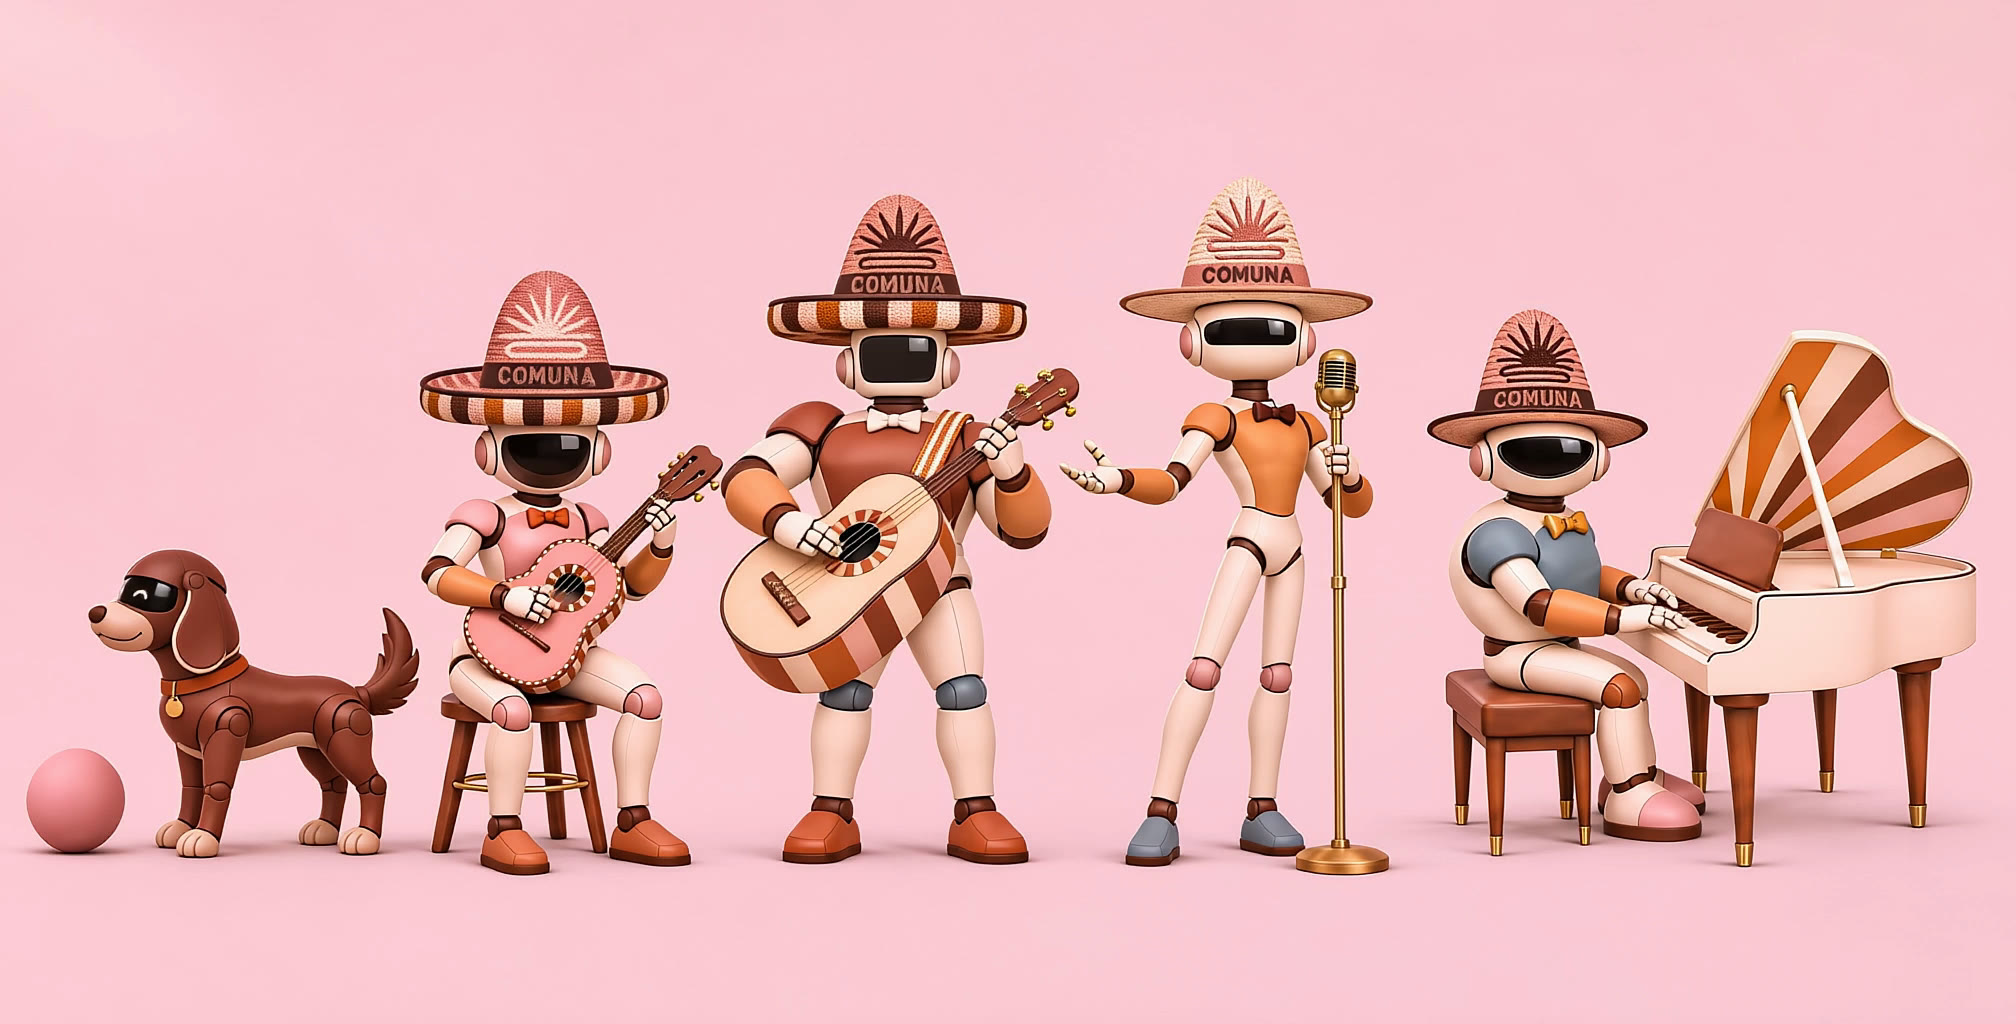
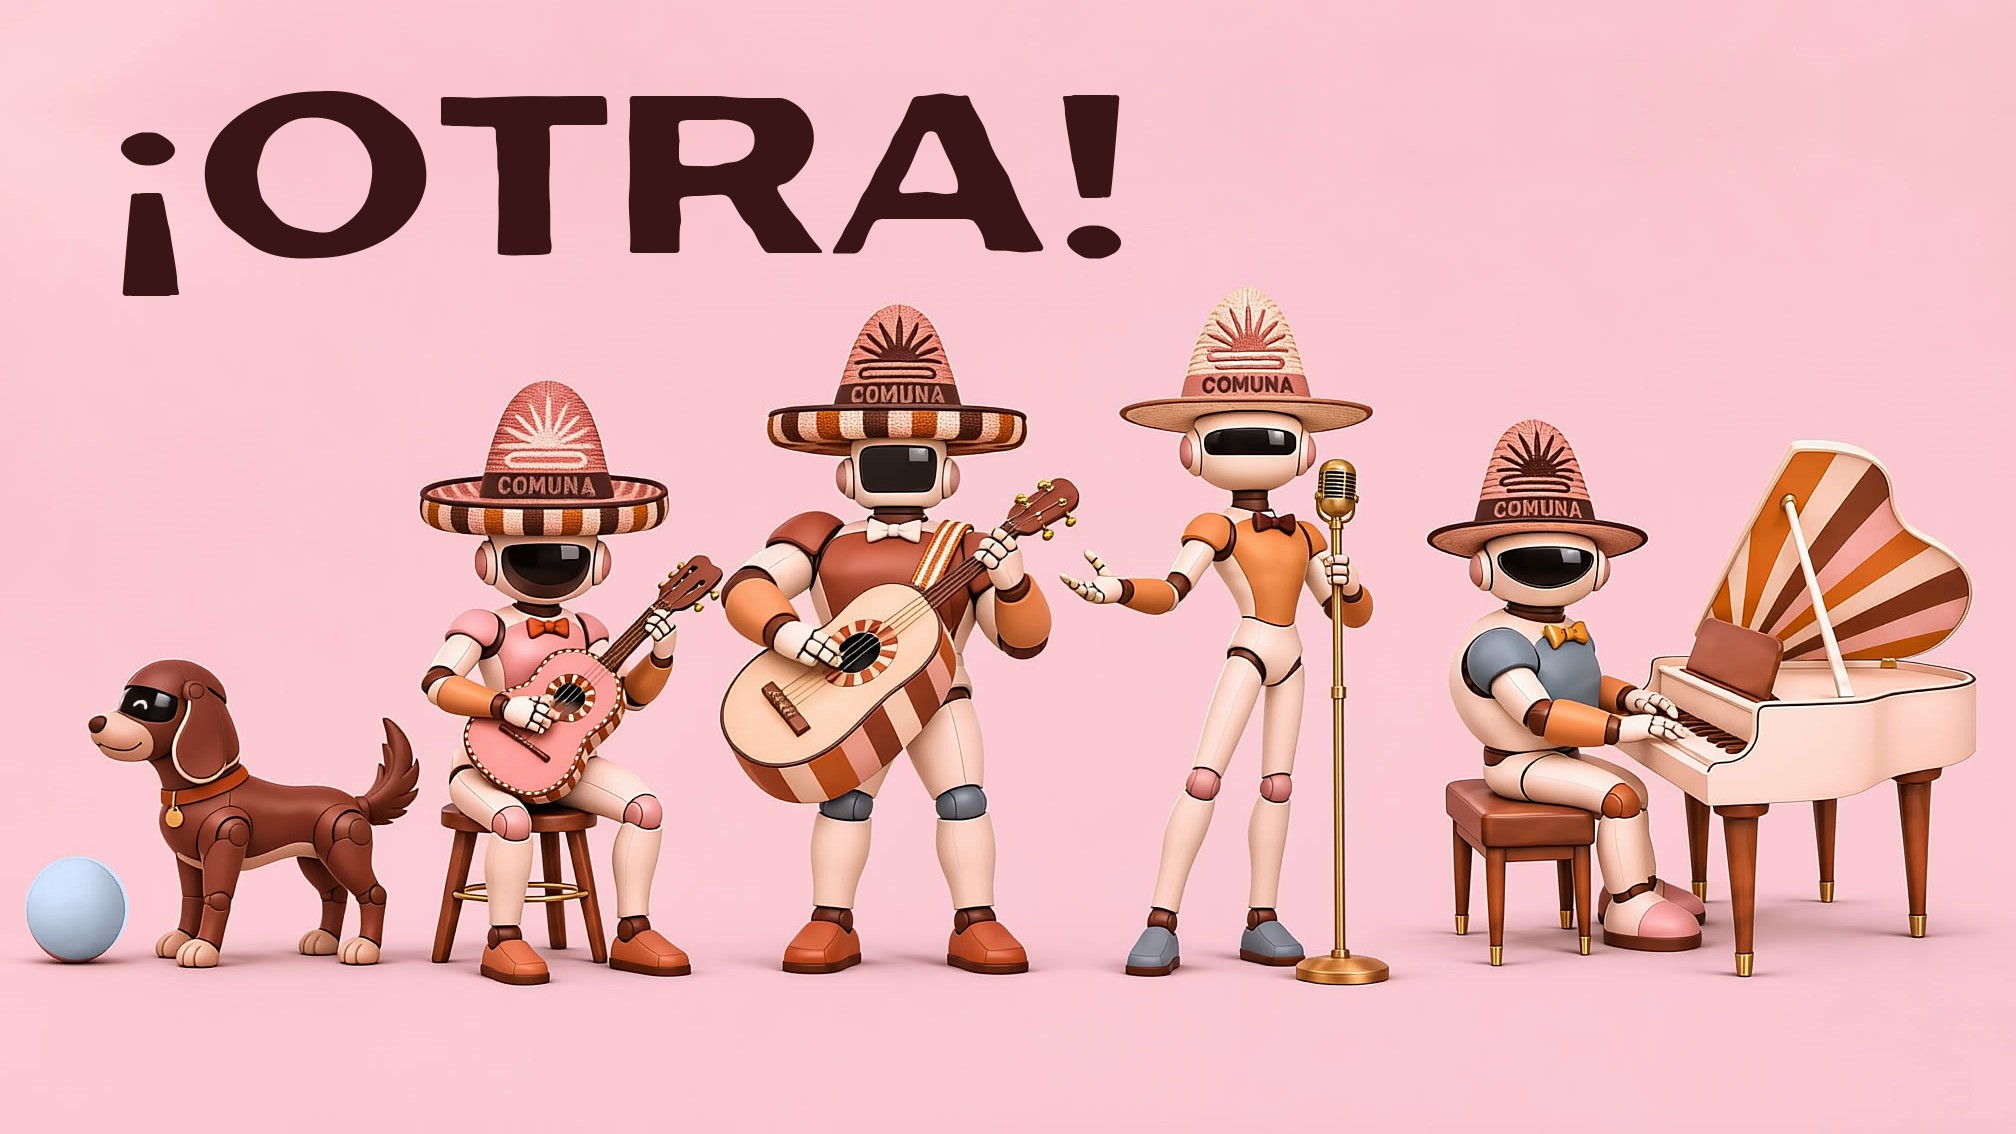
Comuna deck: the R&D sell, our factory, and the band at full width
Jesse, 12 Nov 2 to 3 am: the R&D slide "as a bit of a sell" after CASA;
"our full factory ... AU based, AU owned factory in China" after the team;
the band larger, the ball light blue, "a nice heavy font": ¡OTRA!.

diff --git a/deck/comuna/index.html b/deck/comuna/index.html
@@ -528,13 +528,6 @@
      dark into cocoa and its white ground into nothing, so JPEG logos on white need no blend mode. */
   section[aria-label$=". Who we work with"] .slide{background:#DCE0EC}
   section[aria-label$=". Who we work with"] .wall img{filter:url(#cm-ink);mix-blend-mode:normal;opacity:1}
-  /* the band, the callback to Who we work with: the same heading, the band whole below it on their pink */
-  section[aria-label$=". Who we play with"] .slide{background:#F9C6CF}
-  .cm-band{display:flex;flex-direction:column}
-  .cm-band .cm-band-pic{flex:1 1 auto;min-height:0;margin-top:calc(24*var(--u));display:grid;place-items:center;container-type:size}
-  .cm-band .cm-band-pic img{display:block;max-width:100cqw;max-height:100cqh;width:auto;height:auto;
-    -webkit-mask-image:linear-gradient(90deg,transparent,#000 4%,#000 96%,transparent),linear-gradient(transparent,#000 9%,#000 91%,transparent);
-    -webkit-mask-composite:source-in;mask-composite:intersect}
   .cm-film .plate{container-type:size;display:grid;place-items:center}
   .cm-film iframe{display:block;border:0;width:min(100cqw,calc(100cqh*16/9));height:min(100cqh,calc(100cqw*9/16))}
   /* the title card: the slate run out 400 a side (title-wide), so a wide screen gets more slate, never a cut hat */
@@ -660,13 +653,25 @@
   </div></div>
 </section>
 
-<section class="stage" id="s10" aria-label="Slide 10. Wonder Robotics">
+<section class="stage" id="s10" aria-label="Slide 10. The R and D Tax Incentive">
+  <div class="slide"><div class="in full poster cm-poster cm-whole" style="--ground:#667B89">
+    <div class="plate"><img src="../../img/deck/comuna/art/11-rd-tax.jpg" width="1920" height="1080" alt="¡GRACIAS, ATO! 43.5% of eligible R&D spend, back, through the R&D Tax Incentive, beside El Charro serenading with his vihuela. At a 25% company tax rate, for companies under $20m aggregated turnover (connected companies count). The claim goes to whoever funds and owns the R&D. Your tax adviser confirms what qualifies."></div>
+  </div></div>
+</section>
+
+<section class="stage" id="s11" aria-label="Slide 11. Wonder Robotics">
   <div class="slide"><div class="in full poster cm-poster" style="--ground:#BB7256">
     <div class="plate"><img src="../../img/deck/comuna/art/13-team.jpg" width="2880" height="1620" alt="Wonder Robotics: Jesse Costelloe, design and fabrication; Ryan Edwards, commercial; Logan Baker, marketing; Gino Feng, engineering and robotics; Peter White, advisor, franchising; Don Sanka Small, advisor, growth"></div>
   </div></div>
 </section>
 
-<section class="stage" id="s11" aria-label="Slide 11. Who we work with">
+<section class="stage" id="s12" aria-label="Slide 12. Where our machines are built">
+  <div class="slide"><div class="in full poster cm-poster" style="--ground:#3A1515">
+    <div class="plate"><img src="../../img/deck/comuna/art/14-factory.jpg" width="2880" height="1620" alt="WHERE OUR MACHINES ARE BUILT, over the factory floor in Comuna's cocoa and cream, two finished machines standing on it. Australian owned. Our factory in China. Installed and serviced here. Visualisation, from the factory as filmed."></div>
+  </div></div>
+</section>
+
+<section class="stage" id="s13" aria-label="Slide 13. Who we work with">
   <div class="slide"><div class="in">
     <h2 class="l r">Who we work with.</h2>
     <ul class="wall r">
@@ -686,29 +691,27 @@
       <li><img src="../../img/partners/blue-sun-group.jpg" alt="Blue Sun Group"></li>
       <li><img class="tall" src="../../img/partners/little-red-dumplings.jpg" alt="Little Red Dumpling"></li>
     </ul>
-    <div class="foot"><p>Wonder Robotics</p><p>11</p></div>
+    <div class="foot"><p>Wonder Robotics</p><p>13</p></div>
   </div></div>
 </section>
 
-<section class="stage" id="s12" aria-label="Slide 12. Who we play with">
-  <div class="slide"><div class="in cm-band">
-    <h2 class="l r">And who we play with.</h2>
-    <div class="cm-band-pic r"><img src="../../img/deck/comuna/art/12-band.jpg" width="2016" height="1024" alt="Comuna's robot band in their pink hats: the brown robot dog with his ball, El Charro on a stool with the vihuela, El Charro Callado with the guitarrón, Ojos Negros at the microphone, El Gordo de Oro at the sunburst piano"></div>
-    <div class="foot"><p>Wonder Robotics</p><p>12</p></div>
+<section class="stage" id="s14" aria-label="Slide 14. Otra">
+  <div class="slide"><div class="in full poster cm-poster" style="--ground:#F8C5CE">
+    <div class="plate"><img src="../../img/deck/comuna/art/12-band.jpg" width="2016" height="1134" alt="¡OTRA! over Comuna's robot band in their pink hats: the brown robot dog with his light blue ball, El Charro on a stool with the vihuela, El Charro Callado with the guitarrón, Ojos Negros at the microphone, El Gordo de Oro at the sunburst piano"></div>
   </div></div>
 </section>
 
-<section class="stage" id="s13" aria-label="Slide 13. Ownership">
+<section class="stage" id="s15" aria-label="Slide 15. Ownership">
   <div class="slide"><div class="in say-it own cm dark">
     <p class="lab r">Ownership</p>
     <h2 class="big r">This concept is ours until it is yours.</h2>
     <p class="own-text r">The concepts in this deck, the coffee cart, the cocktail bar, CASA's taco line, the hat, the vihuela, the robot mariachi and his band, their designs, drawings and renders, and this deck itself, belong to Wonder Byte Technology Pty Ltd (ACN 649 247 156), trading as Wonder Robotics, and are shared in confidence for evaluation only. Without a signed agreement and the deposit paid, none of it may be used, copied, adapted, shared or built, and nor may anything substantially similar to it in look, layout or design, by you or by anyone acting for you. The Comuna name and marks are yours. The cocktail duel is Makr Shakr's film, shown from their own channel.</p>
     <img class="cm-sun" src="../../img/deck/comuna/sun-cream.png" width="580" height="416" alt="">
-    <div class="foot"><p>&copy; 2026 Wonder Byte Technology Pty Ltd, trading as Wonder Robotics</p><p>13</p></div>
+    <div class="foot"><p>&copy; 2026 Wonder Byte Technology Pty Ltd, trading as Wonder Robotics</p><p>15</p></div>
   </div></div>
 </section>
 
-<section class="stage" id="s14" aria-label="Slide 14. Wonder Robotics, Fortitude Valley">
+<section class="stage" id="s16" aria-label="Slide 16. Wonder Robotics, Fortitude Valley">
   <div class="slide"><div class="in hero">
     <picture><source media="(max-width:760px)" srcset="../../img/hero-bot.jpg"><img class="bg" src="../../img/hero-bot-wide.jpg" width="4800" height="1340" alt="W-1, the Wonder robot, in his studio"></picture>
     <div class="wrap">
@@ -756,7 +759,7 @@
 
 <nav class="nav" aria-label="Slide controls">
   <button type="button" id="prev" aria-label="Previous slide">&#8592;</button>
-  <output id="count" aria-live="polite">01 / 14</output>
+  <output id="count" aria-live="polite">01 / 16</output>
   <button type="button" id="next" aria-label="Next slide">&#8594;</button>
   <button type="button" id="full" aria-label="Full screen">&#x26F6;</button>
 </nav>

diff --git a/src/comuna-slides.html b/src/comuna-slides.html
@@ -26,6 +26,10 @@
        hat"); El Charro holding the hat out ("this is irrelevant"). The duel plays 0:38 to 1:08 and loops while on screen
        ("cut out the opening ... stop at 1:08 just before the bottle flash", "only show 20 or 30 seconds"), muted with
        YouTube's own controls, so the presenter can bring the sound up.
+     - Jesse, 12 Nov, 2 to 3 am: the R&D sell after CASA (the taco line is the eligible build, the cart is not), the
+       ghost kitchen session's comuna-rd-tax.jpg; the factory after the team ("our full factory", "you can say AU
+       based", "AU owned factory in China too"); the band after Who we work with, full width, "¡OTRA!" in Solana
+       ("who we play with sounds weird, I want a nice heavy font"), the ball light blue.
      - "The drawings" leads to robotics/comuna/drawings/, which must be live before this deck is. -->
 
 <nav class="label" aria-label="Sections">
@@ -60,13 +64,6 @@
      dark into cocoa and its white ground into nothing, so JPEG logos on white need no blend mode. */
   section[aria-label$=". Who we work with"] .slide{background:#DCE0EC}
   section[aria-label$=". Who we work with"] .wall img{filter:url(#cm-ink);mix-blend-mode:normal;opacity:1}
-  /* the band, the callback to Who we work with: the same heading, the band whole below it on their pink */
-  section[aria-label$=". Who we play with"] .slide{background:#F9C6CF}
-  .cm-band{display:flex;flex-direction:column}
-  .cm-band .cm-band-pic{flex:1 1 auto;min-height:0;margin-top:calc(24*var(--u));display:grid;place-items:center;container-type:size}
-  .cm-band .cm-band-pic img{display:block;max-width:100cqw;max-height:100cqh;width:auto;height:auto;
-    -webkit-mask-image:linear-gradient(90deg,transparent,#000 4%,#000 96%,transparent),linear-gradient(transparent,#000 9%,#000 91%,transparent);
-    -webkit-mask-composite:source-in;mask-composite:intersect}
   .cm-film .plate{container-type:size;display:grid;place-items:center}
   .cm-film iframe{display:block;border:0;width:min(100cqw,calc(100cqh*16/9));height:min(100cqh,calc(100cqw*9/16))}
   /* the title card: the slate run out 400 a side (title-wide), so a wide screen gets more slate, never a cut hat */
@@ -181,19 +178,29 @@
   </div></div>
 </section>
 
+<section class="stage" id="s{{i}}" aria-label="Slide {{i}}. The R and D Tax Incentive">
+  <div class="slide"><div class="in full poster cm-poster cm-whole" style="--ground:#667B89">
+    <div class="plate"><img src="{{root}}img/deck/comuna/art/11-rd-tax.jpg" width="1920" height="1080" alt="¡GRACIAS, ATO! 43.5% of eligible R&D spend, back, through the R&D Tax Incentive, beside El Charro serenading with his vihuela. At a 25% company tax rate, for companies under $20m aggregated turnover (connected companies count). The claim goes to whoever funds and owns the R&D. Your tax adviser confirms what qualifies."></div>
+  </div></div>
+</section>
+
 <section class="stage" id="s{{i}}" aria-label="Slide {{i}}. Wonder Robotics">
   <div class="slide"><div class="in full poster cm-poster" style="--ground:#BB7256">
     <div class="plate"><img src="{{root}}img/deck/comuna/art/13-team.jpg" width="2880" height="1620" alt="Wonder Robotics: Jesse Costelloe, design and fabrication; Ryan Edwards, commercial; Logan Baker, marketing; Gino Feng, engineering and robotics; Peter White, advisor, franchising; Don Sanka Small, advisor, growth"></div>
   </div></div>
 </section>
 
+<section class="stage" id="s{{i}}" aria-label="Slide {{i}}. Where our machines are built">
+  <div class="slide"><div class="in full poster cm-poster" style="--ground:#3A1515">
+    <div class="plate"><img src="{{root}}img/deck/comuna/art/14-factory.jpg" width="2880" height="1620" alt="WHERE OUR MACHINES ARE BUILT, over the factory floor in Comuna's cocoa and cream, two finished machines standing on it. Australian owned. Our factory in China. Installed and serviced here. Visualisation, from the factory as filmed."></div>
+  </div></div>
+</section>
+
 <!-- take: Who we work with -->
 
-<section class="stage" id="s{{i}}" aria-label="Slide {{i}}. Who we play with">
-  <div class="slide"><div class="in cm-band">
-    <h2 class="l r">And who we play with.</h2>
-    <div class="cm-band-pic r"><img src="{{root}}img/deck/comuna/art/12-band.jpg" width="2016" height="1024" alt="Comuna's robot band in their pink hats: the brown robot dog with his ball, El Charro on a stool with the vihuela, El Charro Callado with the guitarrón, Ojos Negros at the microphone, El Gordo de Oro at the sunburst piano"></div>
-    <div class="foot"><p>Wonder Robotics</p><p>{{n}}</p></div>
+<section class="stage" id="s{{i}}" aria-label="Slide {{i}}. Otra">
+  <div class="slide"><div class="in full poster cm-poster" style="--ground:#F8C5CE">
+    <div class="plate"><img src="{{root}}img/deck/comuna/art/12-band.jpg" width="2016" height="1134" alt="¡OTRA! over Comuna's robot band in their pink hats: the brown robot dog with his light blue ball, El Charro on a stool with the vihuela, El Charro Callado with the guitarrón, Ojos Negros at the microphone, El Gordo de Oro at the sunburst piano"></div>
   </div></div>
 </section>
 
